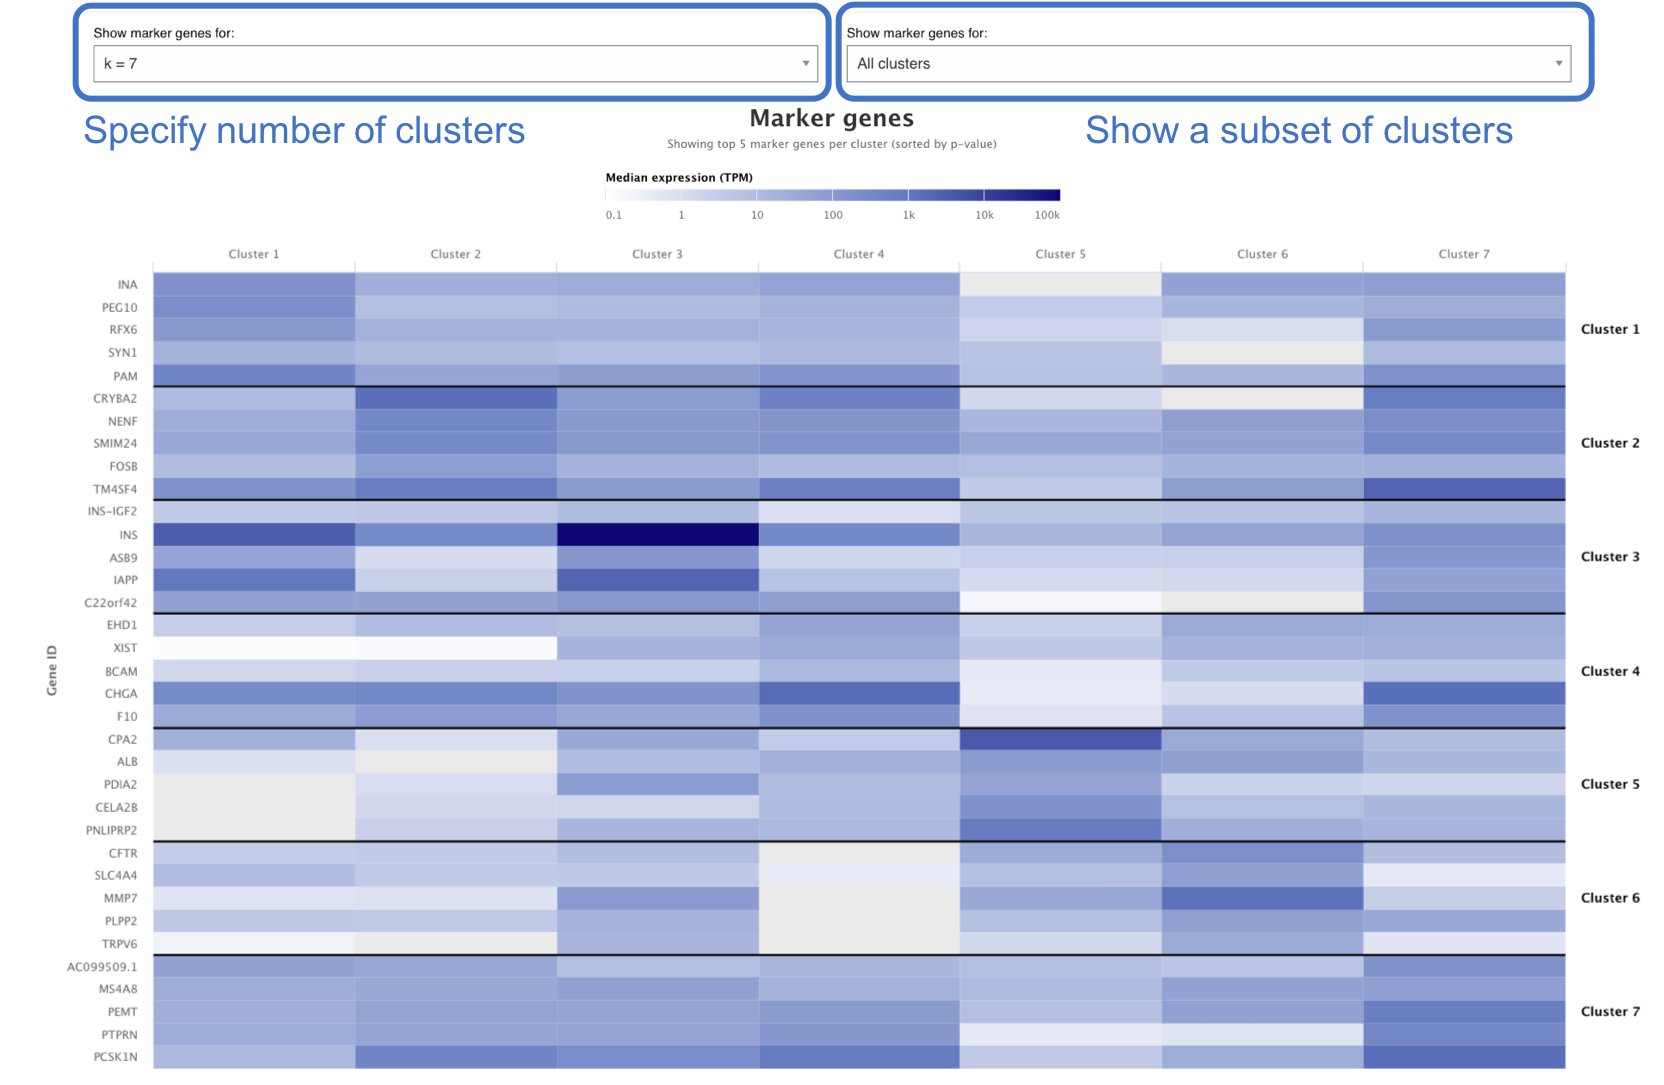
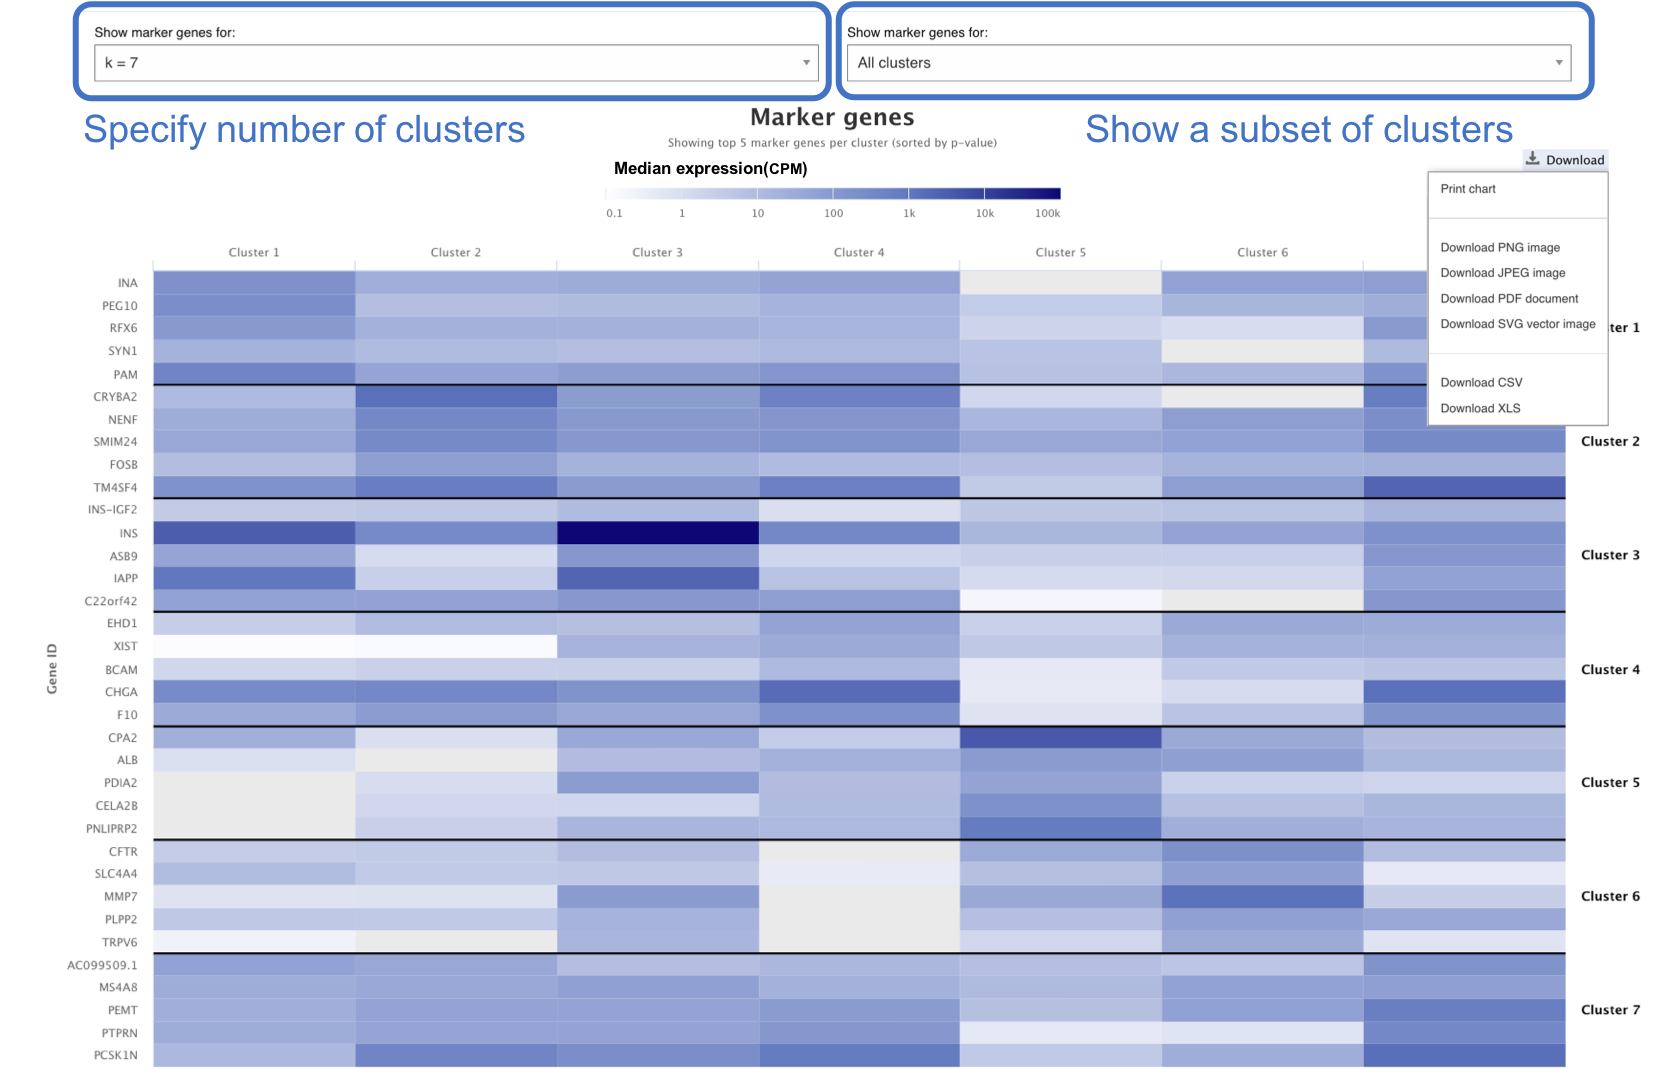
NG updated help pages text for scanpy; new browse exp table; new downloads text; new featured exp page

diff --git a/src/main/webapp/resources/html/help.html b/src/main/webapp/resources/html/help.html
@@ -40,9 +40,18 @@
         <p>
             <img style="max-height: 650px; display:block; margin-left: auto; margin-right: auto;" src="resources/images/help/search_results_page.png" alt="Single Cell Expression Atlas home page search results">
         </p>
+
+        <h3>Featured and Latest Experiments</h3>
+        <p>
+            Here, you can toggle between featured experiments and the latest experiments added to the Single Cell Expression Atlas.
+        </p>
+        <p>
+            <img style="max-height: 650px; display:block; margin-left: auto; margin-right: auto;" src="resources/images/help/featured_and_latestexps.png" alt="Featured and Latest experiments">
+       </p>
+
         <h3>Latest Experiments</h3>
         <p>
-            This is a list of the latest five experiments added to the Single Cell Expression Atlas, their title and
+            This is a list of the latest experiments added to the Single Cell Expression Atlas, their title and
             upload date. You can click on the <b>Results</b> link or the experiment title to jump directly to the
             results page for that dataset. The number of assays is related to the number of sequencing runs. This is not
             equivalent to the number of cells as some cells do not pass sequencing file quality checks or you can have multiple
@@ -62,9 +71,16 @@
         <h3>Browse Experiments</h3>
         <p>
             This page shows you an updated list of all the experiments currently available in the Single Cell
-            Expression Atlas. You can use the highlighted boxes to refine the list by Kingdom; for a keyword in the
-            title; by species or an experiment variable as shown.
+            Expression Atlas.
         </p>
+        <p>
+            In the latest release, this table has had a number of exciting new features added.
+        </p>
+            <ol>
+                <li>Searchable headers: type in your species or a keyword of interest to filter the table based your search results</li>
+                <li>Download experiments: Click on the button next to your dataset of interest to download the data bundle (see tooltip) for that experiment</li>
+                <li>Quick links: Click on the title or assay number for a dataset to jump directly to its Experiment page results and design</li>
+            </ol>
 
         <p>
             <img style="max-height: 650px; display:block; margin-left: auto; margin-right: auto;" src="resources/images/help/experiments_table.png" alt="Browse experiments">
@@ -118,10 +134,9 @@
 
         <p>
             The number of clusters (<i>k</i> value) shows the output of the
-            <a href="https://www.sanger.ac.uk/science/tools/single-cell-consensus-clustering-sc3">Single-cell Consensus
-            Clustering analysis (SC3 algorithm)</a>. The SC3 algorithm groups cell clusters based on similar expression
-            profiles. This also colours the data to allow easier visualisation of different sub-populations within a
-            dataset.
+            <a href="https://scanpy.readthedocs.io/en/latest/api/scanpy.api.tl.louvain.html">Scanpy clustering algorithm</a>.
+            Scanpy clusters cells into subgroups using the Louvain algorithm.
+            This also colours the data to allow easier visualisation of different sub-populations within a dataset.
         </p>
 
         <p>
@@ -146,17 +161,9 @@
         </p>
 
         <p>
-            The default values for perplexity and number of clusters are automatically generated by the analysis
-            pipelines. They aim to provide a general idea of the data as well as the expected number of clusters.
-        </p>
+          t-SNE plots are calculated at a range of perplexities by the analysis pipeline. The central value is selected by default.
 
-        <p>
-            The range of perplexity and <i>k</i> values are produced by the pipeline. However, there is a different
-            logic for the selected default values. Perplexity value is chosen somewhat randomly, to be in the middle of
-            the range. For the <i>k</i> value, we have a multi-step process: it will preferably be the expected
-            clusters value determined by a member of the curation team. If not, it will be the “optimal” value as
-            chosen by the SC3 algorithm output. If that is also not available, then it will just be the first value in
-            the list.
+          Clustering is performed over range of values for resolution in Louvain clustering by Scanpy (producing variable numbers of clusters), and by default the number of clusters corresponding to the default resolution of 1 is selected
         </p>
 
         <h5>t-SNE plot with gene expression</h5>
@@ -165,14 +172,14 @@
         </p>
 
         <p>
-            Expression levels are displayed as TPM (transcripts per million) and broken down in five different,
+            Expression levels are displayed as CPM (counts per million) and broken down into four different,
             logarithmic colour ranges:
         </p>
         <ol>
-            <li>Grey spot: expression level is below cutoff (0.1 TPM) or undetected</li>
-            <li>Light blue spot: expression level is low (between 0.1 to 10 TPM)</li>
-            <li>Medium blue spot: expression level is medium (between 11 to 1000 TPM)</li>
-            <li>Dark blue spot: expression level is high (more than 1000 TPM)</li>
+            <li>Grey spot: expression level is below cutoff (0.1 CPM) or undetected</li>
+            <li>Light blue spot: expression level is low (between 0.1 to 10 CPM)</li>
+            <li>Medium blue spot: expression level is medium (between 11 to 1000 CPM)</li>
+            <li>Dark blue spot: expression level is high (more than 1000 CPM)</li>
         </ol>
 
         <p>
@@ -184,7 +191,8 @@
         <p>
             Genes which comprise part of the specific expression profile for a cell population (cluster) are defined as <b>marker genes</b>.
             These are displayed - 5 per cluster in the <b>Marker Genes</b> tab under <b>Results</b>. Along the top of the page, you can specify
-            the number of clusters or to view only a subset of clusters. As with the t-SNE plots, the heatmap can also be saved as an image.
+            the number of clusters or to view only a subset of clusters. As with the t-SNE plots, the heatmap can also be saved either an image or you
+            can also directly download the data as expression values for each gene per cluster.
 
         </p>
 
@@ -250,15 +258,17 @@
                 <b>Results files:</b>
                 <ol type="i">
                     <li>
-                        Clustering file – output of SC3 analysis for clustering of filtered cells for the different
+                        Clustering file: output of Scanpy analysis for clustering of filtered cells for the different
                         <i>k</i> values
-                        <a href="https://www.sanger.ac.uk/science/tools/single-cell-consensus-clustering-sc3">(Single-cell
-                        Consensus Clustering – SC3)</a>
+                        <a href="https://scanpy.readthedocs.io/en/latest/api/scanpy.api.tl.louvain.html">(Scanpy clustering algorithm)</a>
                     </li>
                     <li>
-                        Filtered quantification file – provides the measured gene expression in TPMs for each filtered
+                        Filtered quantification file: provides the measured gene expression in CPMs for each filtered
                         cell alongside gene and cell ID
                     </li>
+                    <li> Marker gene files: expression values for each marker gene per cluster</li>
+                    <li> Normalised counts files </li>
+                    <li> Raw quantification files </li>
                 </ol>
             </li>
         </ol>
